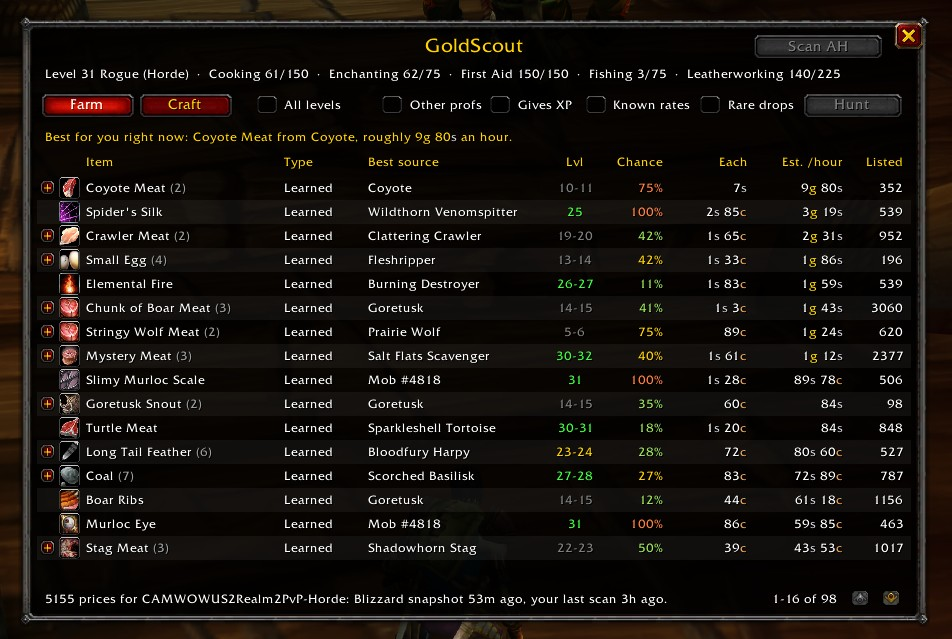
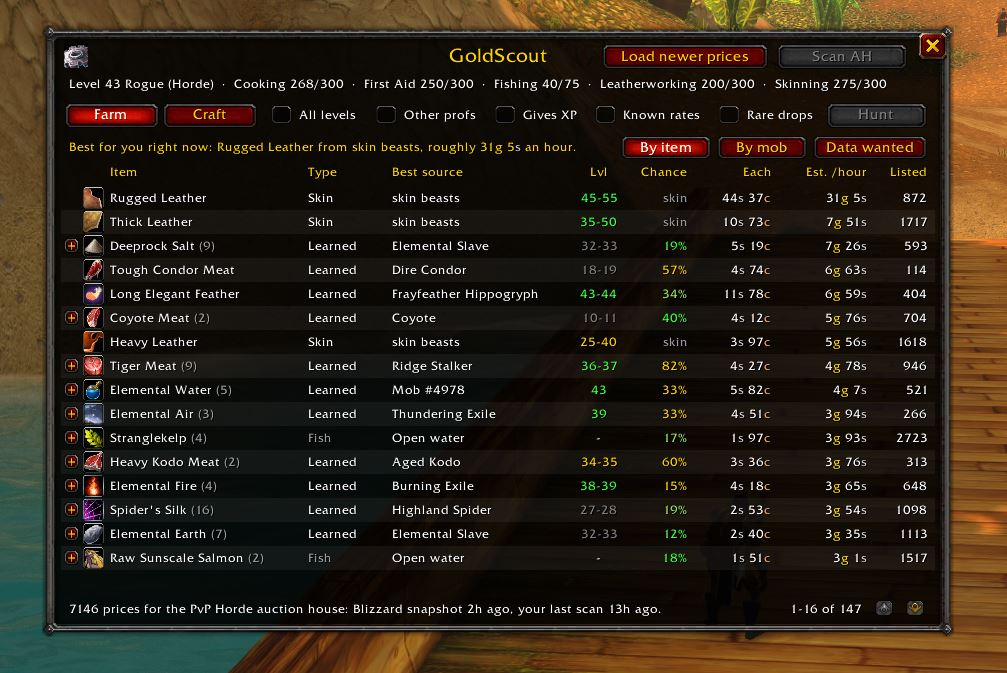
Update the Farm tab screenshot
A level 43 rogue's Farm tab, shown on every home page and in the README.

diff --git a/README.md b/README.md
@@ -24,7 +24,7 @@
 </p>
 
 <p align="center">
-  <img src="docs/screenshots/Frame.JPG" alt="The GoldScout Farm tab: farms ranked by gold per hour for a level 31 rogue" width="760">
+  <img src="docs/screenshots/Frame.JPG" alt="The GoldScout Farm tab: farms ranked by gold per hour for a level 43 rogue" width="760">
 </p>
 
 Log onto a level 12 druid herbalist or a level 31 rogue, open GoldScout, and you
